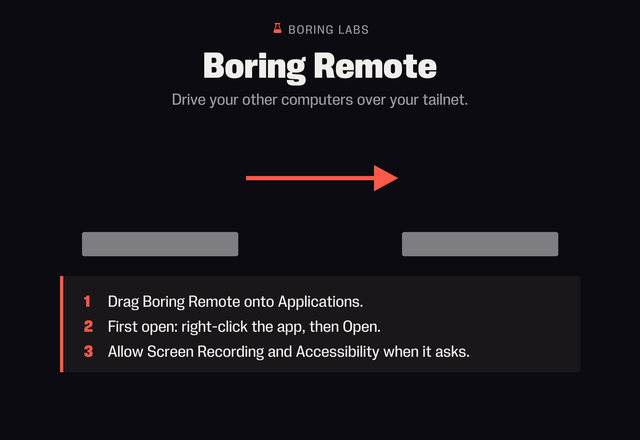
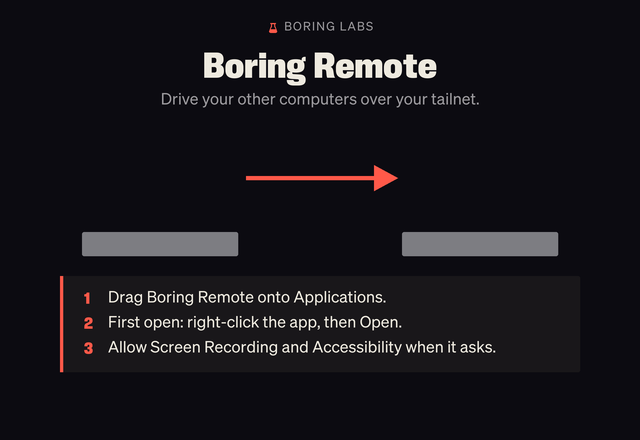
boring: DMG art in warm paper #EEEADF and Soehne Buch
Neue Corp Ultrabold stays for the title and numerals. Everything else moves to
Soehne Buch (Boring Type), light type to #EEEADF. The MSI art keeps its own palette.

Claude-Session: https://claude.ai/code/session_01RSN8zhWTef4UTeJA9dD8iG

Changed region(s): [[0.125, 0.65, 0.7812, 0.8273], [0.25, 0.2068, 0.75, 0.2659], [0.4062, 0.0295, 0.5938, 0.0886]]

diff --git a/boring/dmg/make_art.py b/boring/dmg/make_art.py
@@ -14,7 +14,7 @@ path bar and status bar on every window.
 
 The fonts are Boring Type and are NOT in this repo (they are not ours to publish).
 Point --fonts (or BORING_TYPE_DIR) at a folder holding neue-corp-ultrabold.otf and
-neue-corp-medium.otf. The script stops if a face is missing rather than fall back.
+soehne-buch.otf. The script stops if a face is missing rather than fall back.
 Needs Pillow. Output is deterministic: same fonts, same bytes.
 """
 import argparse
@@ -29,11 +29,13 @@ HERE = pathlib.Path(__file__).resolve().parent
 _spec = importlib.util.spec_from_file_location("msi_art", HERE.parent / "msi" / "make_art.py")
 _msi = importlib.util.module_from_spec(_spec)
 _spec.loader.exec_module(_msi)
-CORAL, INK, MUTED, PAPER, SS = _msi.CORAL, _msi.INK, _msi.MUTED, _msi.PAPER, _msi.SS
-canvas, eyebrow, face, text = _msi.canvas, _msi.eyebrow, _msi.face, _msi.text
+CORAL, INK, MUTED, SS = _msi.CORAL, _msi.INK, _msi.MUTED, _msi.SS
+canvas, face, flask, text = _msi.canvas, _msi.face, _msi.flask, _msi.text
 
 W, H = 640, 440
+BODY = "soehne-buch.otf"
 APP_XY, APPS_XY = (160, 178), (480, 178)  # icon centres, must match settings.py
+PAPER = (0xEE, 0xEA, 0xDF)
 PANEL = (0x19, 0x17, 0x1A)
 PLATE = (0x7D, 0x7D, 0x82)  # mid grey: Finder draws icon names black in Light Mode, white in Dark
 
@@ -53,11 +55,12 @@ def background(fonts, scale):
     im, d = canvas(W, H, INK)
     R = lambda x0, y0, x1, y1: [x0 * SS, y0 * SS, x1 * SS, y1 * SS]
 
-    label = face(fonts, "neue-corp-medium.otf", 12)
+    label = face(fonts, BODY, 12)
     ew = 17 + sum(label.getlength(ch) for ch in "BORING LABS") / SS + 1.2 * 10
-    eyebrow(d, (W - ew) / 2, 22, fonts, INK)
+    d.polygon(flask(d, (W - ew) / 2, 22, 12), fill=INK)
+    text(d, ((W - ew) / 2 + 17, 21), "BORING LABS", label, MUTED, kern=1.2)
     centred(d, 40, "Boring Remote", face(fonts, "neue-corp-ultrabold.otf", 36), PAPER)
-    centred(d, 88, "Drive your other computers over your tailnet.", face(fonts, "neue-corp-medium.otf", 16), MUTED)
+    centred(d, 92, "Drive your other computers over your tailnet.", face(fonts, BODY, 16), MUTED)
 
     # Drag arrow between the icons.
     y = APP_XY[1]
@@ -72,10 +75,10 @@ def background(fonts, scale):
     d.rounded_rectangle(R(x0, y0, x1, y1), 2 * SS, fill=PANEL)
     d.rectangle(R(x0, y0, x0 + 3, y1), fill=CORAL)
     num = face(fonts, "neue-corp-ultrabold.otf", 16)
-    body = face(fonts, "neue-corp-medium.otf", 16)
+    body = face(fonts, BODY, 16)
     for i, s in enumerate(STEPS):
         ry = y0 + 14 + i * 25
-        text(d, (x0 + 24, ry), str(i + 1), num, CORAL)
+        text(d, (x0 + 24, ry - 3), str(i + 1), num, CORAL)  # baselines match the Soehne line
         text(d, (x0 + 48, ry), s, body, PAPER)
 
     return im.resize((W * scale, H * scale), Image.LANCZOS)
